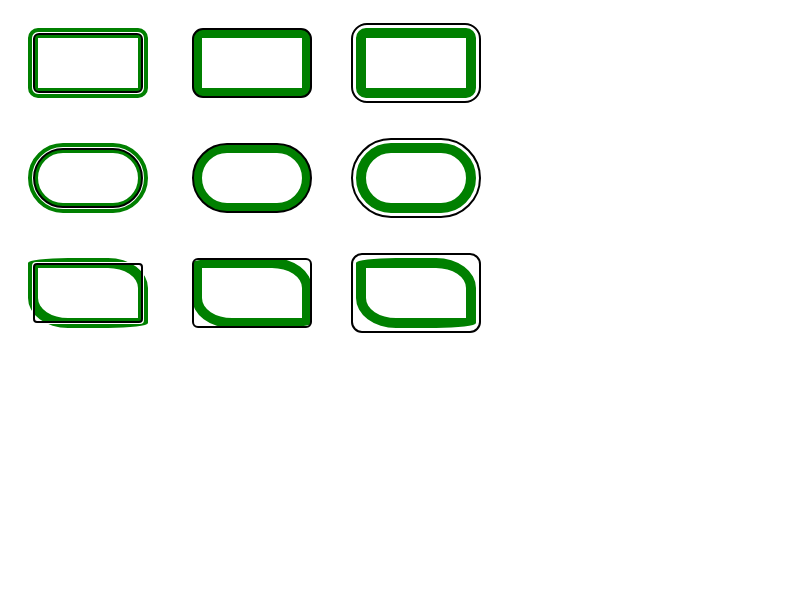
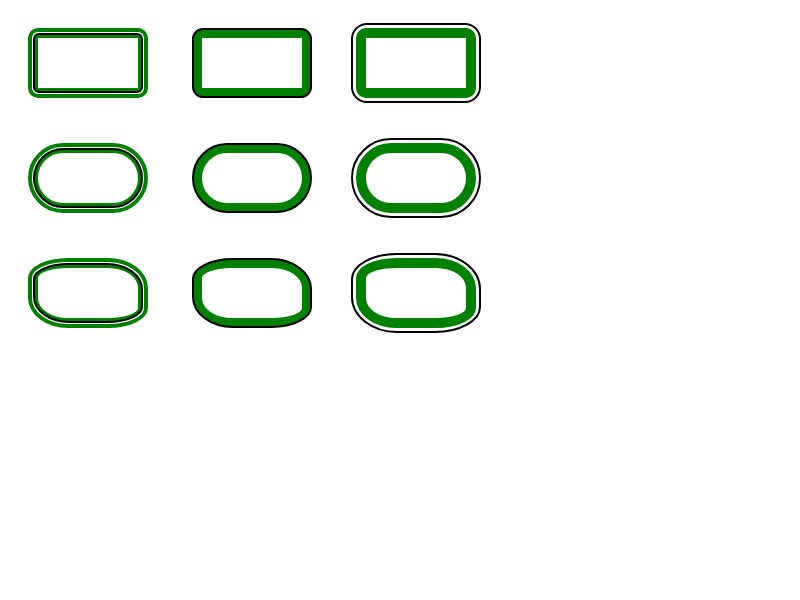
Support non-uniform border-radius for single-rect focus ring
Now pass SkRRect to GraphicsContext::DrawFocusRingRect().
If the focus ring is a single rect, the whole Radii will be respected
and convert into a SkRRect.

This also prepares for implementation of non-uniform border-radius for
complex focus rings.

Bug: 81556
Commit-Queue: Xianzhu Wang <wangxianzhu@chromium.org>
Cr-Commit-Position: refs/heads/master@{#907420}

diff --git a/web_tests/fast/css/block-focus-ring-with-border-radius.html b/web_tests/fast/css/block-focus-ring-with-border-radius.html
@@ -17,6 +17,6 @@ div {
 <div style="border-radius: 40px"></div>
 <div style="border-radius: 40px; outline-offset: 5px"></div>
 <br>
-<div style="border-radius: 40px / 5px 30px; outline-offset: -5px"></div>
-<div style="border-radius: 40px / 5px 30px"></div>
-<div style="border-radius: 40px / 5px 30px; outline-offset: 5px"></div>
+<div style="border-radius: 40px / 20px 30px; outline-offset: -5px"></div>
+<div style="border-radius: 40px / 20px 30px"></div>
+<div style="border-radius: 40px / 20px 30px; outline-offset: 5px"></div>

diff --git a/renderer/core/paint/outline_painter.cc b/renderer/core/paint/outline_painter.cc
@@ -222,8 +222,9 @@ float DefaultFocusRingCornerRadius(const ComputedStyle& style) {
   return style.FocusRingStrokeWidth();
 }
 
-float GetFocusRingCornerRadius(const ComputedStyle& style,
-                               const PhysicalRect& reference_border_rect) {
+FloatRoundedRect::Radii GetFocusRingCornerRadii(
+    const ComputedStyle& style,
+    const PhysicalRect& reference_border_rect) {
   if (style.HasBorderRadius() &&
       (!style.HasEffectiveAppearance() || style.HasAuthorBorderRadius())) {
     int outset = style.OutlineOffsetInt();
@@ -231,17 +232,9 @@ float GetFocusRingCornerRadius(const ComputedStyle& style,
         RoundedBorderGeometry::PixelSnappedRoundedBorderWithOutsets(
             style, reference_border_rect,
             LayoutRectOutsets(outset, outset, outset, outset));
-    // For now we only support uniform border radius for all corners of the
-    // focus ring. Use the minimum radius of all corners to prevent the focus
-    // ring from overlapping with the element, but not smaller than the default
-    // border radius.
-    const auto& radii = rect.GetRadii();
-    return std::max(
-        DefaultFocusRingCornerRadius(style),
-        std::min({radii.TopLeft().Width(), radii.TopLeft().Height(),
-                  radii.TopRight().Width(), radii.TopRight().Height(),
-                  radii.BottomRight().Width(), radii.BottomRight().Height(),
-                  radii.BottomLeft().Width(), radii.BottomLeft().Height()}));
+    auto radii = rect.GetRadii();
+    radii.SetMinimumRadius(DefaultFocusRingCornerRadius(style));
+    return radii;
   }
 
   if (!style.HasAuthorBorder() && style.HasEffectiveAppearance()) {
@@ -277,18 +270,18 @@ float GetFocusRingCornerRadius(const ComputedStyle& style,
       corner_radius =
           ui::NativeTheme::GetInstanceForWeb()->AdjustBorderRadiusByZoom(
               part.value(), corner_radius, style.EffectiveZoom());
-      return corner_radius;
+      return FloatRoundedRect::Radii(corner_radius);
     }
   }
 
-  return DefaultFocusRingCornerRadius(style);
+  return FloatRoundedRect::Radii(DefaultFocusRingCornerRadius(style));
 }
 
 void PaintSingleFocusRing(GraphicsContext& context,
                           const Vector<IntRect>& rects,
                           float width,
                           int offset,
-                          float corner_radius,
+                          const FloatRoundedRect::Radii& corner_radii,
                           const Color& color) {
   unsigned rect_count = rects.size();
   if (!rect_count)
@@ -307,19 +300,36 @@ void PaintSingleFocusRing(GraphicsContext& context,
     return;
 
   if (focus_ring_region.isRect()) {
-    context.DrawFocusRingRect(SkRect::Make(focus_ring_region.getBounds()),
-                              color, width, corner_radius);
-  } else {
-    SkPath path;
-    if (focus_ring_region.getBoundaryPath(&path))
-      context.DrawFocusRingPath(path, color, width, corner_radius);
+    context.DrawFocusRingRect(
+        FloatRoundedRect(IntRect(focus_ring_region.getBounds()), corner_radii),
+        color, width);
+    return;
   }
+
+  SkPath path;
+  if (!focus_ring_region.getBoundaryPath(&path))
+    return;
+  absl::optional<float> corner_radius = corner_radii.UniformRadius();
+  if (corner_radius.has_value()) {
+    context.DrawFocusRingPath(path, color, width, *corner_radius);
+    return;
+  }
+
+  // TODO(wangxianzhu): Bake non-uniform radii into the path. For now use the
+  // minimum radius.
+  float radius = std::min(
+      {corner_radii.TopLeft().Width(), corner_radii.TopLeft().Height(),
+       corner_radii.TopRight().Width(), corner_radii.TopRight().Height(),
+       corner_radii.BottomLeft().Width(), corner_radii.BottomLeft().Height(),
+       corner_radii.BottomRight().Width(),
+       corner_radii.BottomRight().Height()});
+  context.DrawFocusRingPath(path, color, width, radius);
 }
 
 void PaintFocusRing(GraphicsContext& context,
                     const Vector<IntRect>& rects,
                     const ComputedStyle& style,
-                    float corner_radius) {
+                    const FloatRoundedRect::Radii& corner_radii) {
   Color inner_color = style.VisitedDependentColor(GetCSSPropertyOutlineColor());
 #if !defined(OS_MAC)
   if (style.DarkColorScheme())
@@ -332,13 +342,13 @@ void PaintFocusRing(GraphicsContext& context,
   Color outer_color =
       style.DarkColorScheme() ? Color(0x10, 0x10, 0x10) : Color::kWhite;
   PaintSingleFocusRing(context, rects, outer_ring_width,
-                       offset + std::ceil(inner_ring_width), corner_radius,
+                       offset + std::ceil(inner_ring_width), corner_radii,
                        outer_color);
   // Draw the inner ring using |outer_ring_width| (which should be wider than
   // the additional offset of the outer ring) over the outer ring to ensure no
   // gaps or AA artifacts.
   DCHECK_GE(outer_ring_width, std::ceil(inner_ring_width));
-  PaintSingleFocusRing(context, rects, outer_ring_width, offset, corner_radius,
+  PaintSingleFocusRing(context, rects, outer_ring_width, offset, corner_radii,
                        inner_color);
 }
 
@@ -353,8 +363,8 @@ void OutlinePainter::PaintOutlineRects(
     pixel_snapped_outline_rects.push_back(PixelSnappedIntRect(r));
 
   if (style.OutlineStyleIsAuto()) {
-    float corner_radius = GetFocusRingCornerRadius(style, outline_rects[0]);
-    PaintFocusRing(context, pixel_snapped_outline_rects, style, corner_radius);
+    auto corner_radii = GetFocusRingCornerRadii(style, outline_rects[0]);
+    PaintFocusRing(context, pixel_snapped_outline_rects, style, corner_radii);
     return;
   }
 

diff --git a/renderer/platform/graphics/skia/skia_utils.cc b/renderer/platform/graphics/skia/skia_utils.cc
@@ -378,63 +378,34 @@ SkRect LayoutRectToSkRect(const blink::LayoutRect& rect) {
                           SkFloatToScalar(rect.Height()));
 }
 
-template <typename PrimitiveType>
-void DrawFocusRingPrimitive(const PrimitiveType&,
-                            cc::PaintCanvas*,
-                            const PaintFlags&,
-                            float corner_radius) {
-  NOTREACHED();  // Missing an explicit specialization?
-}
-
-template <>
-void DrawFocusRingPrimitive<SkRect>(const SkRect& rect,
-                                    cc::PaintCanvas* canvas,
-                                    const PaintFlags& flags,
-                                    float corner_radius) {
-  SkRRect rrect;
-  rrect.setRectXY(rect, SkFloatToScalar(corner_radius),
-                  SkFloatToScalar(corner_radius));
-  canvas->drawRRect(rrect, flags);
-}
-
-template <>
-void DrawFocusRingPrimitive<SkPath>(const SkPath& path,
-                                    cc::PaintCanvas* canvas,
-                                    const PaintFlags& flags,
-                                    float corner_radius) {
-  PaintFlags path_flags = flags;
-  path_flags.setPathEffect(
-      SkCornerPathEffect::Make(SkFloatToScalar(corner_radius)));
-  canvas->drawPath(path, path_flags);
-}
-
-template <typename PrimitiveType>
-void DrawPlatformFocusRing(const PrimitiveType& primitive,
-                           cc::PaintCanvas* canvas,
-                           SkColor color,
-                           float width,
-                           float corner_radius) {
+static PaintFlags PaintFlagsForFocusRing(SkColor color, float width) {
   PaintFlags flags;
   flags.setAntiAlias(true);
   flags.setStyle(PaintFlags::kStroke_Style);
   flags.setColor(color);
   flags.setStrokeWidth(width);
-
-  DrawFocusRingPrimitive(primitive, canvas, flags, corner_radius);
+  return flags;
 }
 
-template void PLATFORM_EXPORT
-DrawPlatformFocusRing<SkRect>(const SkRect&,
-                              cc::PaintCanvas*,
-                              SkColor,
-                              float width,
-                              float corner_radius);
-template void PLATFORM_EXPORT
-DrawPlatformFocusRing<SkPath>(const SkPath&,
-                              cc::PaintCanvas*,
-                              SkColor,
-                              float width,
-                              float corner_radius);
+void DrawPlatformFocusRing(const SkRRect& rrect,
+                           cc::PaintCanvas* canvas,
+                           SkColor color,
+                           float width) {
+  canvas->drawRRect(rrect, PaintFlagsForFocusRing(color, width));
+}
+
+void DrawPlatformFocusRing(const SkPath& path,
+                           cc::PaintCanvas* canvas,
+                           SkColor color,
+                           float width,
+                           float corner_radius) {
+  PaintFlags path_flags = PaintFlagsForFocusRing(color, width);
+  if (corner_radius) {
+    path_flags.setPathEffect(
+        SkCornerPathEffect::Make(SkFloatToScalar(corner_radius)));
+  }
+  canvas->drawPath(path, path_flags);
+}
 
 sk_sp<SkData> TryAllocateSkData(size_t size) {
   void* buffer = WTF::Partitions::BufferPartition()->AllocFlags(

diff --git a/renderer/platform/geometry/float_rounded_rect.h b/renderer/platform/geometry/float_rounded_rect.h
@@ -31,6 +31,7 @@
 #define THIRD_PARTY_BLINK_RENDERER_PLATFORM_GEOMETRY_FLOAT_ROUNDED_RECT_H_
 
 #include <iosfwd>
+#include "third_party/abseil-cpp/absl/types/optional.h"
 #include "third_party/blink/renderer/platform/geometry/float_rect.h"
 #include "third_party/blink/renderer/platform/geometry/float_size.h"
 #include "third_party/blink/renderer/platform/wtf/allocator/allocator.h"
@@ -57,6 +58,11 @@ class PLATFORM_EXPORT FloatRoundedRect {
           top_right_(top_right),
           bottom_left_(bottom_left),
           bottom_right_(bottom_right) {}
+    explicit constexpr Radii(float radius)
+        : Radii(FloatSize(radius, radius),
+                FloatSize(radius, radius),
+                FloatSize(radius, radius),
+                FloatSize(radius, radius)) {}
 
     constexpr Radii(const Radii&) = default;
     constexpr Radii& operator=(const Radii&) = default;
@@ -69,6 +75,9 @@ class PLATFORM_EXPORT FloatRoundedRect {
     constexpr const FloatSize& TopRight() const { return top_right_; }
     constexpr const FloatSize& BottomLeft() const { return bottom_left_; }
     constexpr const FloatSize& BottomRight() const { return bottom_right_; }
+
+    void SetMinimumRadius(float);
+    absl::optional<float> UniformRadius() const;
 
     constexpr bool IsZero() const {
       return top_left_.IsZero() && top_right_.IsZero() &&

diff --git a/renderer/platform/geometry/float_rounded_rect.cc b/renderer/platform/geometry/float_rounded_rect.cc
@@ -52,6 +52,25 @@ FloatRoundedRect::FloatRoundedRect(const FloatRect& rect,
                                    const FloatSize& bottom_right)
     : rect_(rect), radii_(top_left, top_right, bottom_left, bottom_right) {}
 
+void FloatRoundedRect::Radii::SetMinimumRadius(float minimum_radius) {
+  top_left_.SetWidth(std::max(minimum_radius, top_left_.Width()));
+  top_left_.SetHeight(std::max(minimum_radius, top_left_.Height()));
+  top_right_.SetWidth(std::max(minimum_radius, top_right_.Width()));
+  top_right_.SetHeight(std::max(minimum_radius, top_right_.Height()));
+  bottom_left_.SetWidth(std::max(minimum_radius, bottom_left_.Width()));
+  bottom_left_.SetHeight(std::max(minimum_radius, bottom_left_.Height()));
+  bottom_right_.SetWidth(std::max(minimum_radius, bottom_right_.Width()));
+  bottom_right_.SetHeight(std::max(minimum_radius, bottom_right_.Height()));
+}
+
+absl::optional<float> FloatRoundedRect::Radii::UniformRadius() const {
+  if (top_left_.Width() == top_left_.Height() && top_left_ == top_right_ &&
+      top_left_ == bottom_left_ && top_left_ == bottom_right_) {
+    return top_left_.Width();
+  }
+  return absl::nullopt;
+}
+
 void FloatRoundedRect::Radii::Scale(float factor) {
   if (factor == 1)
     return;

diff --git a/renderer/platform/graphics/skia/skia_utils.h b/renderer/platform/graphics/skia/skia_utils.h
@@ -142,12 +142,15 @@ inline float BlurRadiusToStdDev(float radius) {
   return radius * 0.5f;
 }
 
-template <typename PrimitiveType>
-void DrawPlatformFocusRing(const PrimitiveType&,
-                           cc::PaintCanvas*,
-                           SkColor,
-                           float width,
-                           float corner_radius);
+void PLATFORM_EXPORT DrawPlatformFocusRing(const SkRRect&,
+                                           cc::PaintCanvas*,
+                                           SkColor,
+                                           float width);
+void PLATFORM_EXPORT DrawPlatformFocusRing(const SkPath&,
+                                           cc::PaintCanvas*,
+                                           SkColor,
+                                           float width,
+                                           float corner_radius);
 
 inline SkCanvas::SrcRectConstraint WebCoreClampingModeToSkiaRectConstraint(
     Image::ImageClampingMode clamp_mode) {

diff --git a/renderer/platform/graphics/graphics_context.cc b/renderer/platform/graphics/graphics_context.cc
@@ -343,15 +343,14 @@ void GraphicsContext::DrawFocusRingPath(const SkPath& path,
       width, corner_radius);
 }
 
-void GraphicsContext::DrawFocusRingRect(const SkRect& rect,
+void GraphicsContext::DrawFocusRingRect(const SkRRect& rrect,
                                         const Color& color,
-                                        float width,
-                                        float corner_radius) {
+                                        float width) {
   DrawPlatformFocusRing(
-      rect, canvas_,
+      rrect, canvas_,
       DarkModeFilterHelper::ApplyToColorIfNeeded(
           this, color.Rgb(), DarkModeFilter::ElementRole::kBackground),
-      width, corner_radius);
+      width);
 }
 
 static void EnforceDotsAtEndpoints(GraphicsContext& context,

diff --git a/renderer/platform/graphics/graphics_context.h b/renderer/platform/graphics/graphics_context.h
@@ -392,10 +392,7 @@ class PLATFORM_EXPORT GraphicsContext {
                          const Color&,
                          float width,
                          float corner_radius);
-  void DrawFocusRingRect(const SkRect&,
-                         const Color&,
-                         float width,
-                         float corner_radius);
+  void DrawFocusRingRect(const SkRRect&, const Color&, float width);
 
   const PaintFlags& FillFlags() const { return ImmutableState()->FillFlags(); }
   // If the length of the path to be stroked is known, pass it in for correct
